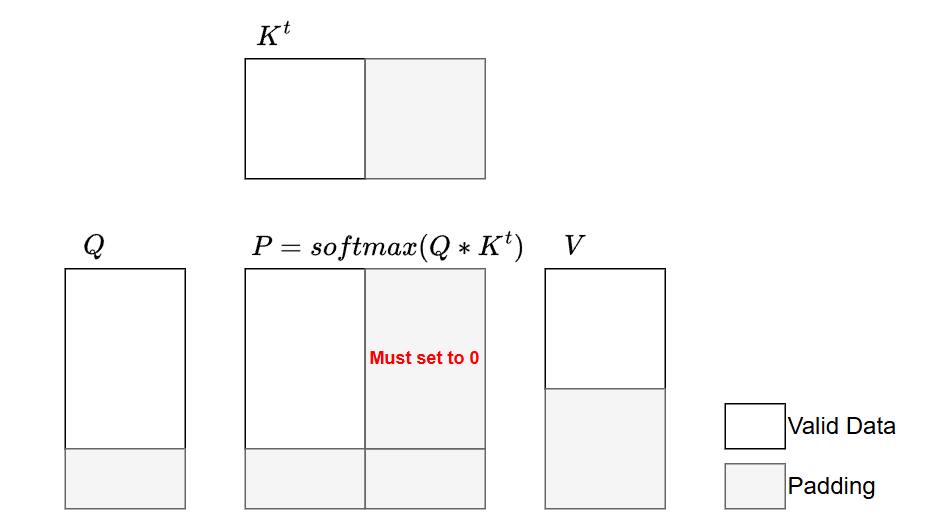
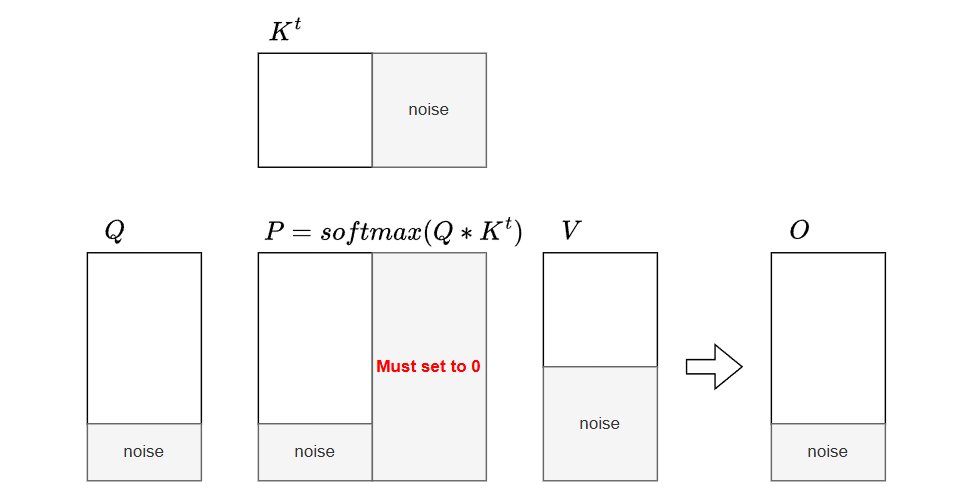
no-need for query mask if query has dirty date in padding

diff --git a/content/tech/kernels/flash_attention/index.md b/content/tech/kernels/flash_attention/index.md
@@ -181,8 +181,6 @@ The precomputed vector $\mathbf{D} \in \mathbb{R}^N$ (passed as the `delta` para
 
 To compute $\mathbf{dQ}$, the kernel keeps a block of $\mathbf{Q}$ and $\mathbf{dO}$ resident in SRAM while iterating over blocks of $\mathbf{K}$ and $\mathbf{V}$. The attention probabilities $\mathbf{P}$ and intermediate gradient $\mathbf{dS}$ are dynamically recomputed using the $LSE$ saved during the forward pass, allowing $\mathbf{dQ}$ to be accumulated entirely in SRAM.
 
-![](./fa_backward_dq.png)
-
 ### The `NaN` Hazard for Masked Positions
 Explicitly masking padded positions of $\mathbf{Q}\mathbf{K}^\top$ to $-\infty$ is mandatory during recomputation. Without it, padded $\mathbf{K}$ vectors (which are zeroed out) produce a dot product of $0$. If a valid query has a large negative $LSE$ (e.g., $-20$), the unmasked exponent evaluates to $2^{0 - (-20)} = 2^{20}$. This overflows float16 limits, yielding Inf. The subsequent calculation multiplies this by padded zeros ($\text{Inf} \times 0$), resulting in NaN and destroying the gradient tensor. Masking ensures the exponent evaluates safely to $2^{-\infty} = 0$.
 
@@ -202,13 +200,20 @@ This zero-padding propagates safely through the gradient computation. Specifical
 
 This implicit masking strategy avoids redundant bound checks and `-inf` assignments in the inner $m$-loop, improving overall kernel performance. However, the correctness of this optimization strictly depends on the assumption that out-of-bounds elements in $\mathbf{dO}$ and $\mathbf{Q}$ are **safely zero-padded during memory loads**.
 
-### Explicit Masking Requirement for Non-Zero Padding
+### Robustness Against Non-Zero Padding (Dirty Data)
 
-**The reliance on implicit zero-padding fails if the input tensors are not strictly zeroed out in the padded regions**. In architectures requiring manual sequence padding before the attention kernel—such as Variable Sparse Attention (VSA)—padding tokens might contain non-zero values or residual data. If $\mathbf{Q}$ or $\mathbf{dO}$ contains non-zero values in out-of-bounds regions, the mathematical cancellation fails. The non-zero $\mathbf{dO}$ will interact with the intermediate $P$ matrix (which evaluates to $1$ when $\mathbf{Q}\mathbf{K}^T=0$ and $\mathbf{LSE}=0$), leading to erroneous gradient accumulations in $\mathbf{dK}$ and $\mathbf{dV}$. Under these conditions, explicit masking for the query dimension ($m$) is strictly required.
+It might intuitively seem that explicit masking is required if the padded regions of $\mathbf{Q}$ contain non-zero values (e.g., "dirty data" introduced by non-zero bias in preceding Linear layers, which is common in manual padding workflows like Variable Sparse Attention). However, explicit masking in the Query ($m$) dimension remains entirely unnecessary even with dirty data.
 
-Crucially, this mask must be applied by directly zeroing out $P$, rather than setting $\mathbf{Q}\mathbf{K}^T$ to $-\infty$. Because the $\mathbf{LSE}$ values at out-of-bounds positions are undefined (and frequently recorded as $-\infty$ during the forward pass), masking $\mathbf{Q}\mathbf{K}^T$ to $-\infty$ can trigger a $-\infty - (-\infty)$ operation when calculating $\mathbf{Q}\mathbf{K}^T - \mathbf{LSE}$. This yields `NaN` and corrupts the entire gradient matrix. Explicitly forcing $P$ to $0.0$ after the exponential evaluation completely bypasses this numerical instability and safely halts gradient propagation to out-of-bounds indices.
+This robustness is guaranteed by PyTorch's Autograd mechanism. In practice, models use operations like `unpad` (index selection) or sequence slicing after the attention block. **During the backward pass, Autograd strictly zeroes out the incoming gradient $\mathbf{dO}$ for all unselected padding positions.**
 
-![](./fa_backward_dkdv.png)
+When $\mathbf{dO} = 0$ for padding tokens, the kernel's mathematical cancellation perfectly shields the dirty data:
+1. The intermediate variables evaluate to $0$: $\Delta = 0$ and $\mathbf{dP} = \mathbf{dO}\mathbf{V}^T = 0$.
+2. The attention scalar gradient evaluates to $0$: $\mathbf{dS} = \mathbf{P} \cdot (\mathbf{dP} - \Delta) \cdot \text{scale} = 0$.
+3. During the gradient update $\mathbf{dK} += \mathbf{dS}^T \mathbf{Q}$, any non-zero dirty data in $\mathbf{Q}$ is multiplied by $\mathbf{dS} = 0$, yielding zero contribution.
+
+This mathematical property safely isolates the model gradients from the padding region data, completely eliminating the need for extra `tl.where` masking instructions inside the Triton inner loop.
+
+![](./fa_backward.png)
 
 ### Triton Implementation (Backward)
 
@@ -359,17 +364,6 @@ def _bwd_dk_dv_kernel(
             qk = tl.where(mask_n[None, :], qk, float("-inf"))
 
         p = tl.math.exp2(qk - lse[:, None])
-
-        # If the input at padding positions cannot be guaranteed to be strictly 0,
-        # we must explicitly mask `p` to 0.0 along the m dimension (Query dimension).
-        # Note: Because the `lse` values at out-of-bounds positions are uncertain
-        # (they might be recorded as -inf during the forward pass), setting `qk` to -inf 
-        # could result in evaluating exp2(-inf - (-inf)), which yields NaN. 
-        # This fails to guarantee that `p` evaluates to 0. 
-        # Therefore, the zero-masking must be applied directly to `p` after its computation.
-        if start_m_idx + BLOCK_M >= SEQ:
-            mask_m = offs_m < SEQ
-            p = tl.where(mask_m[:, None], p, 0.0)
 
         dv = tl.dot(tl.trans(p).to(do.dtype), do, dv)
 
